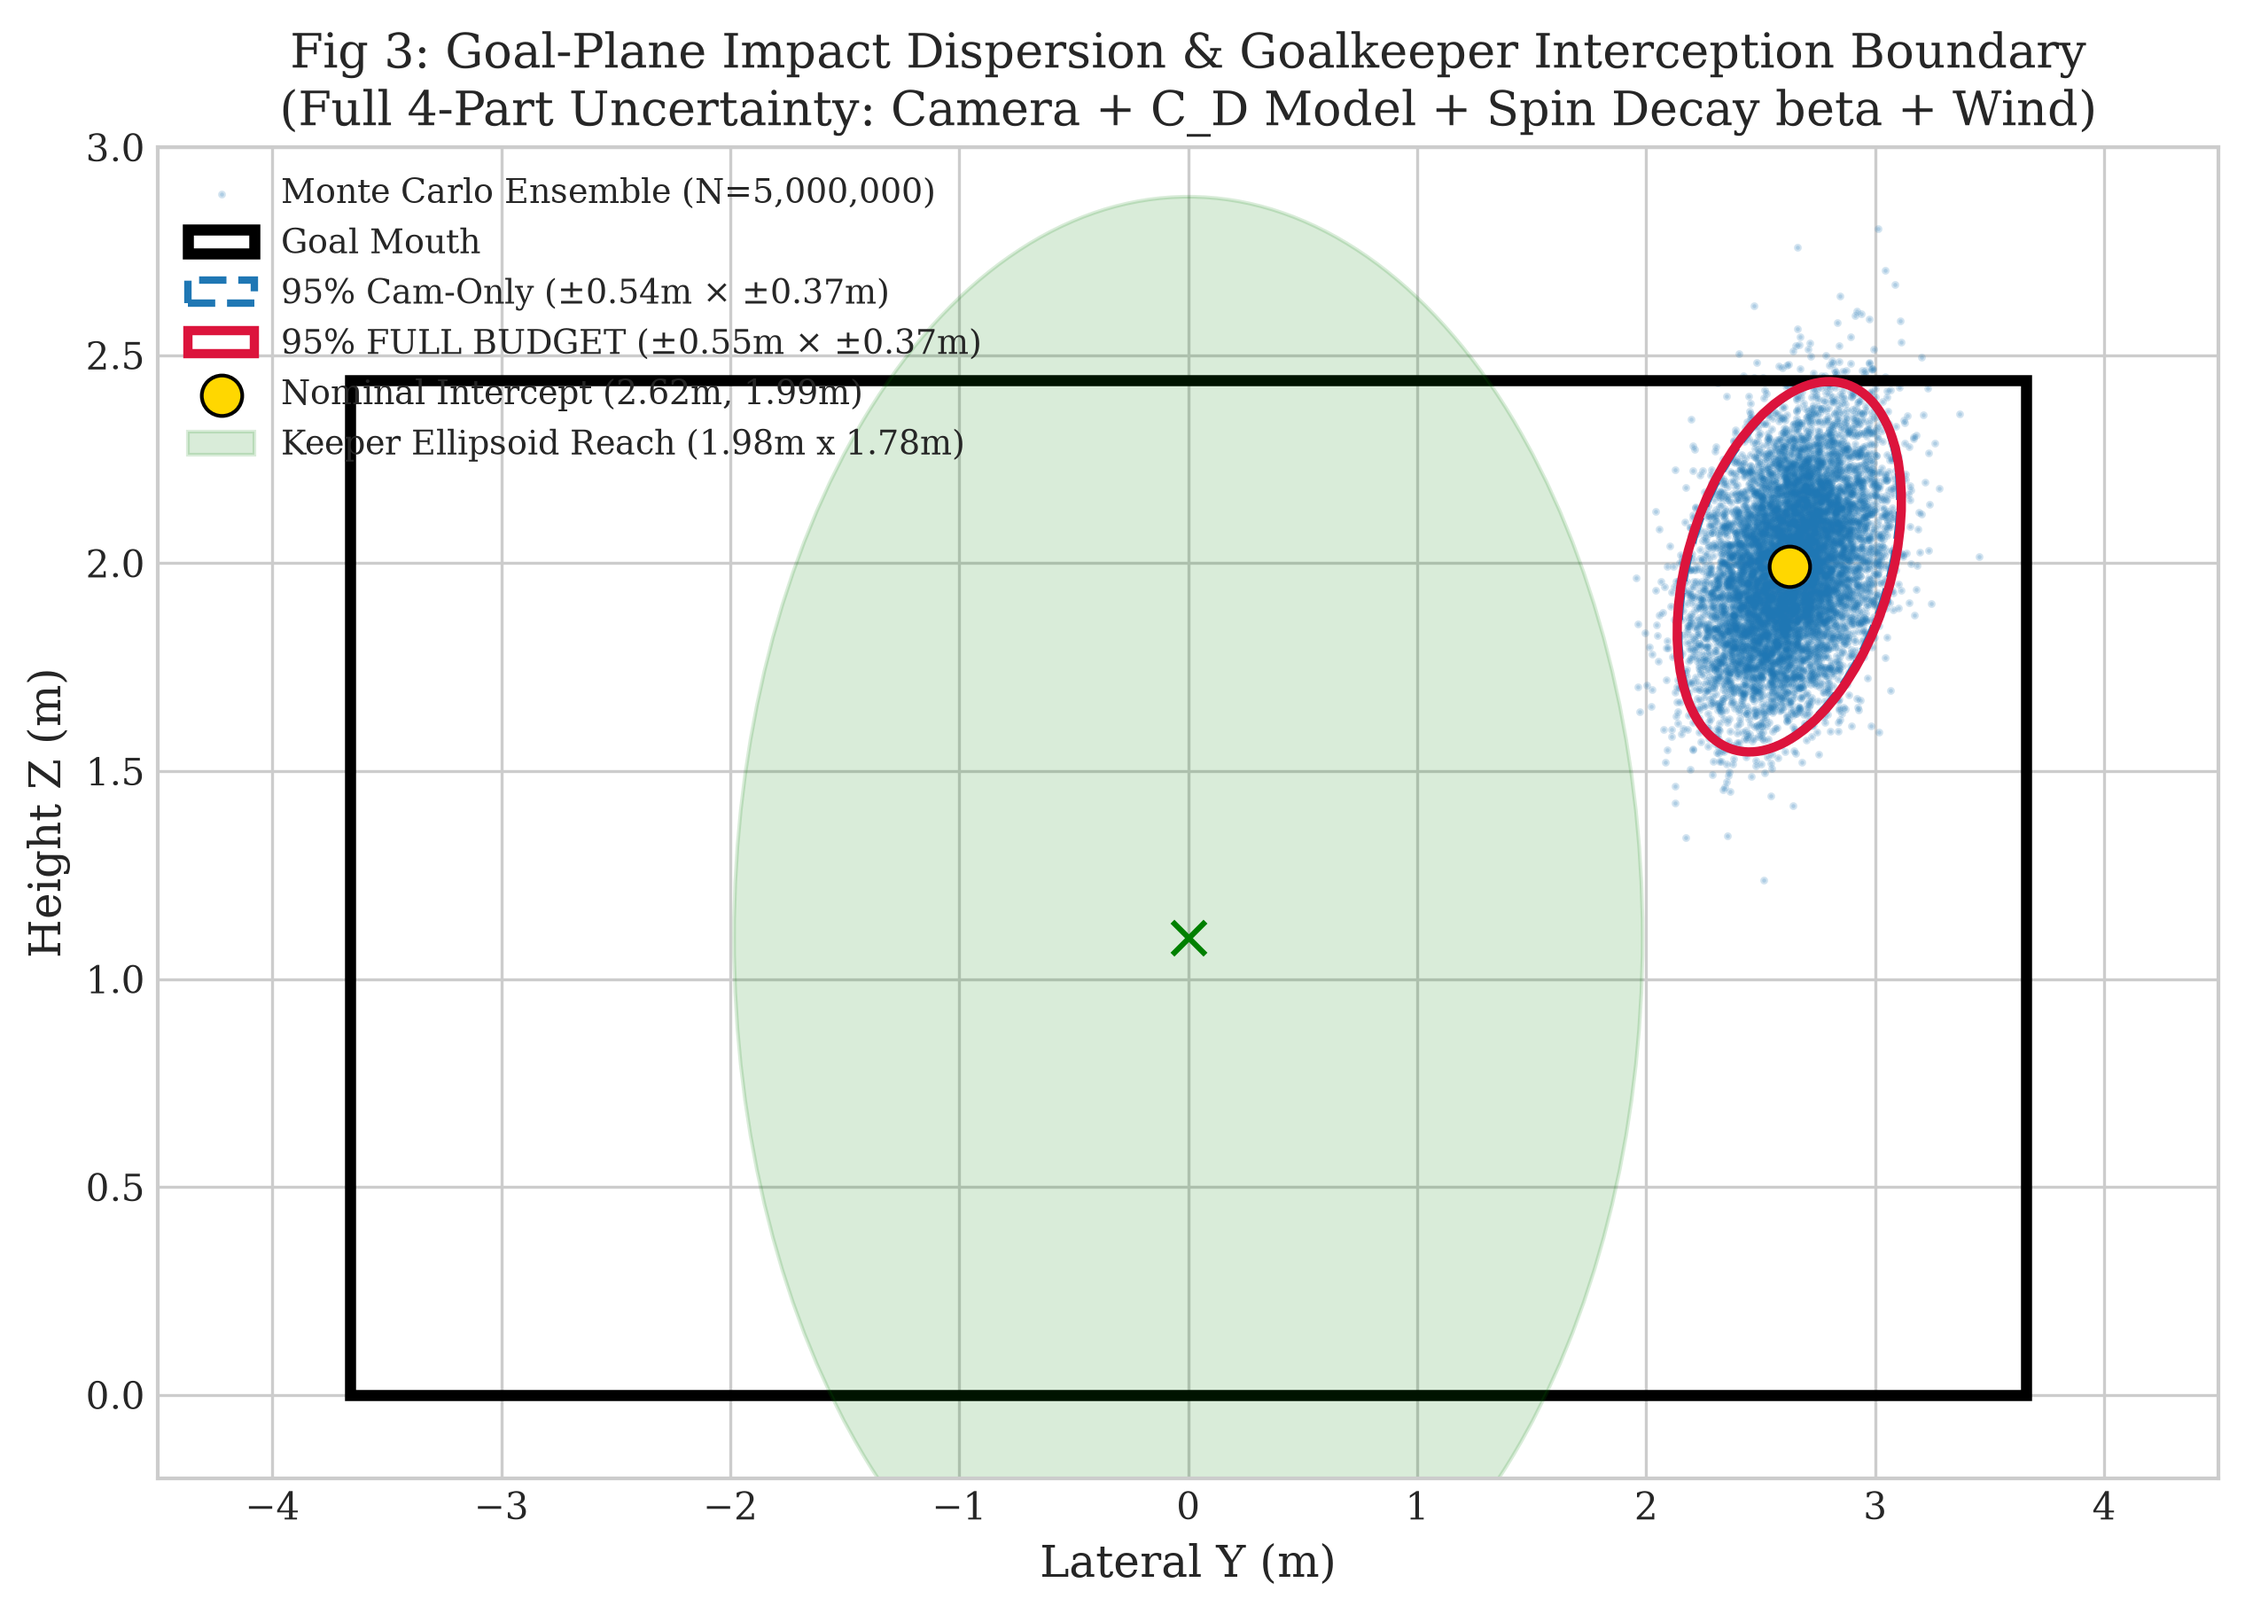
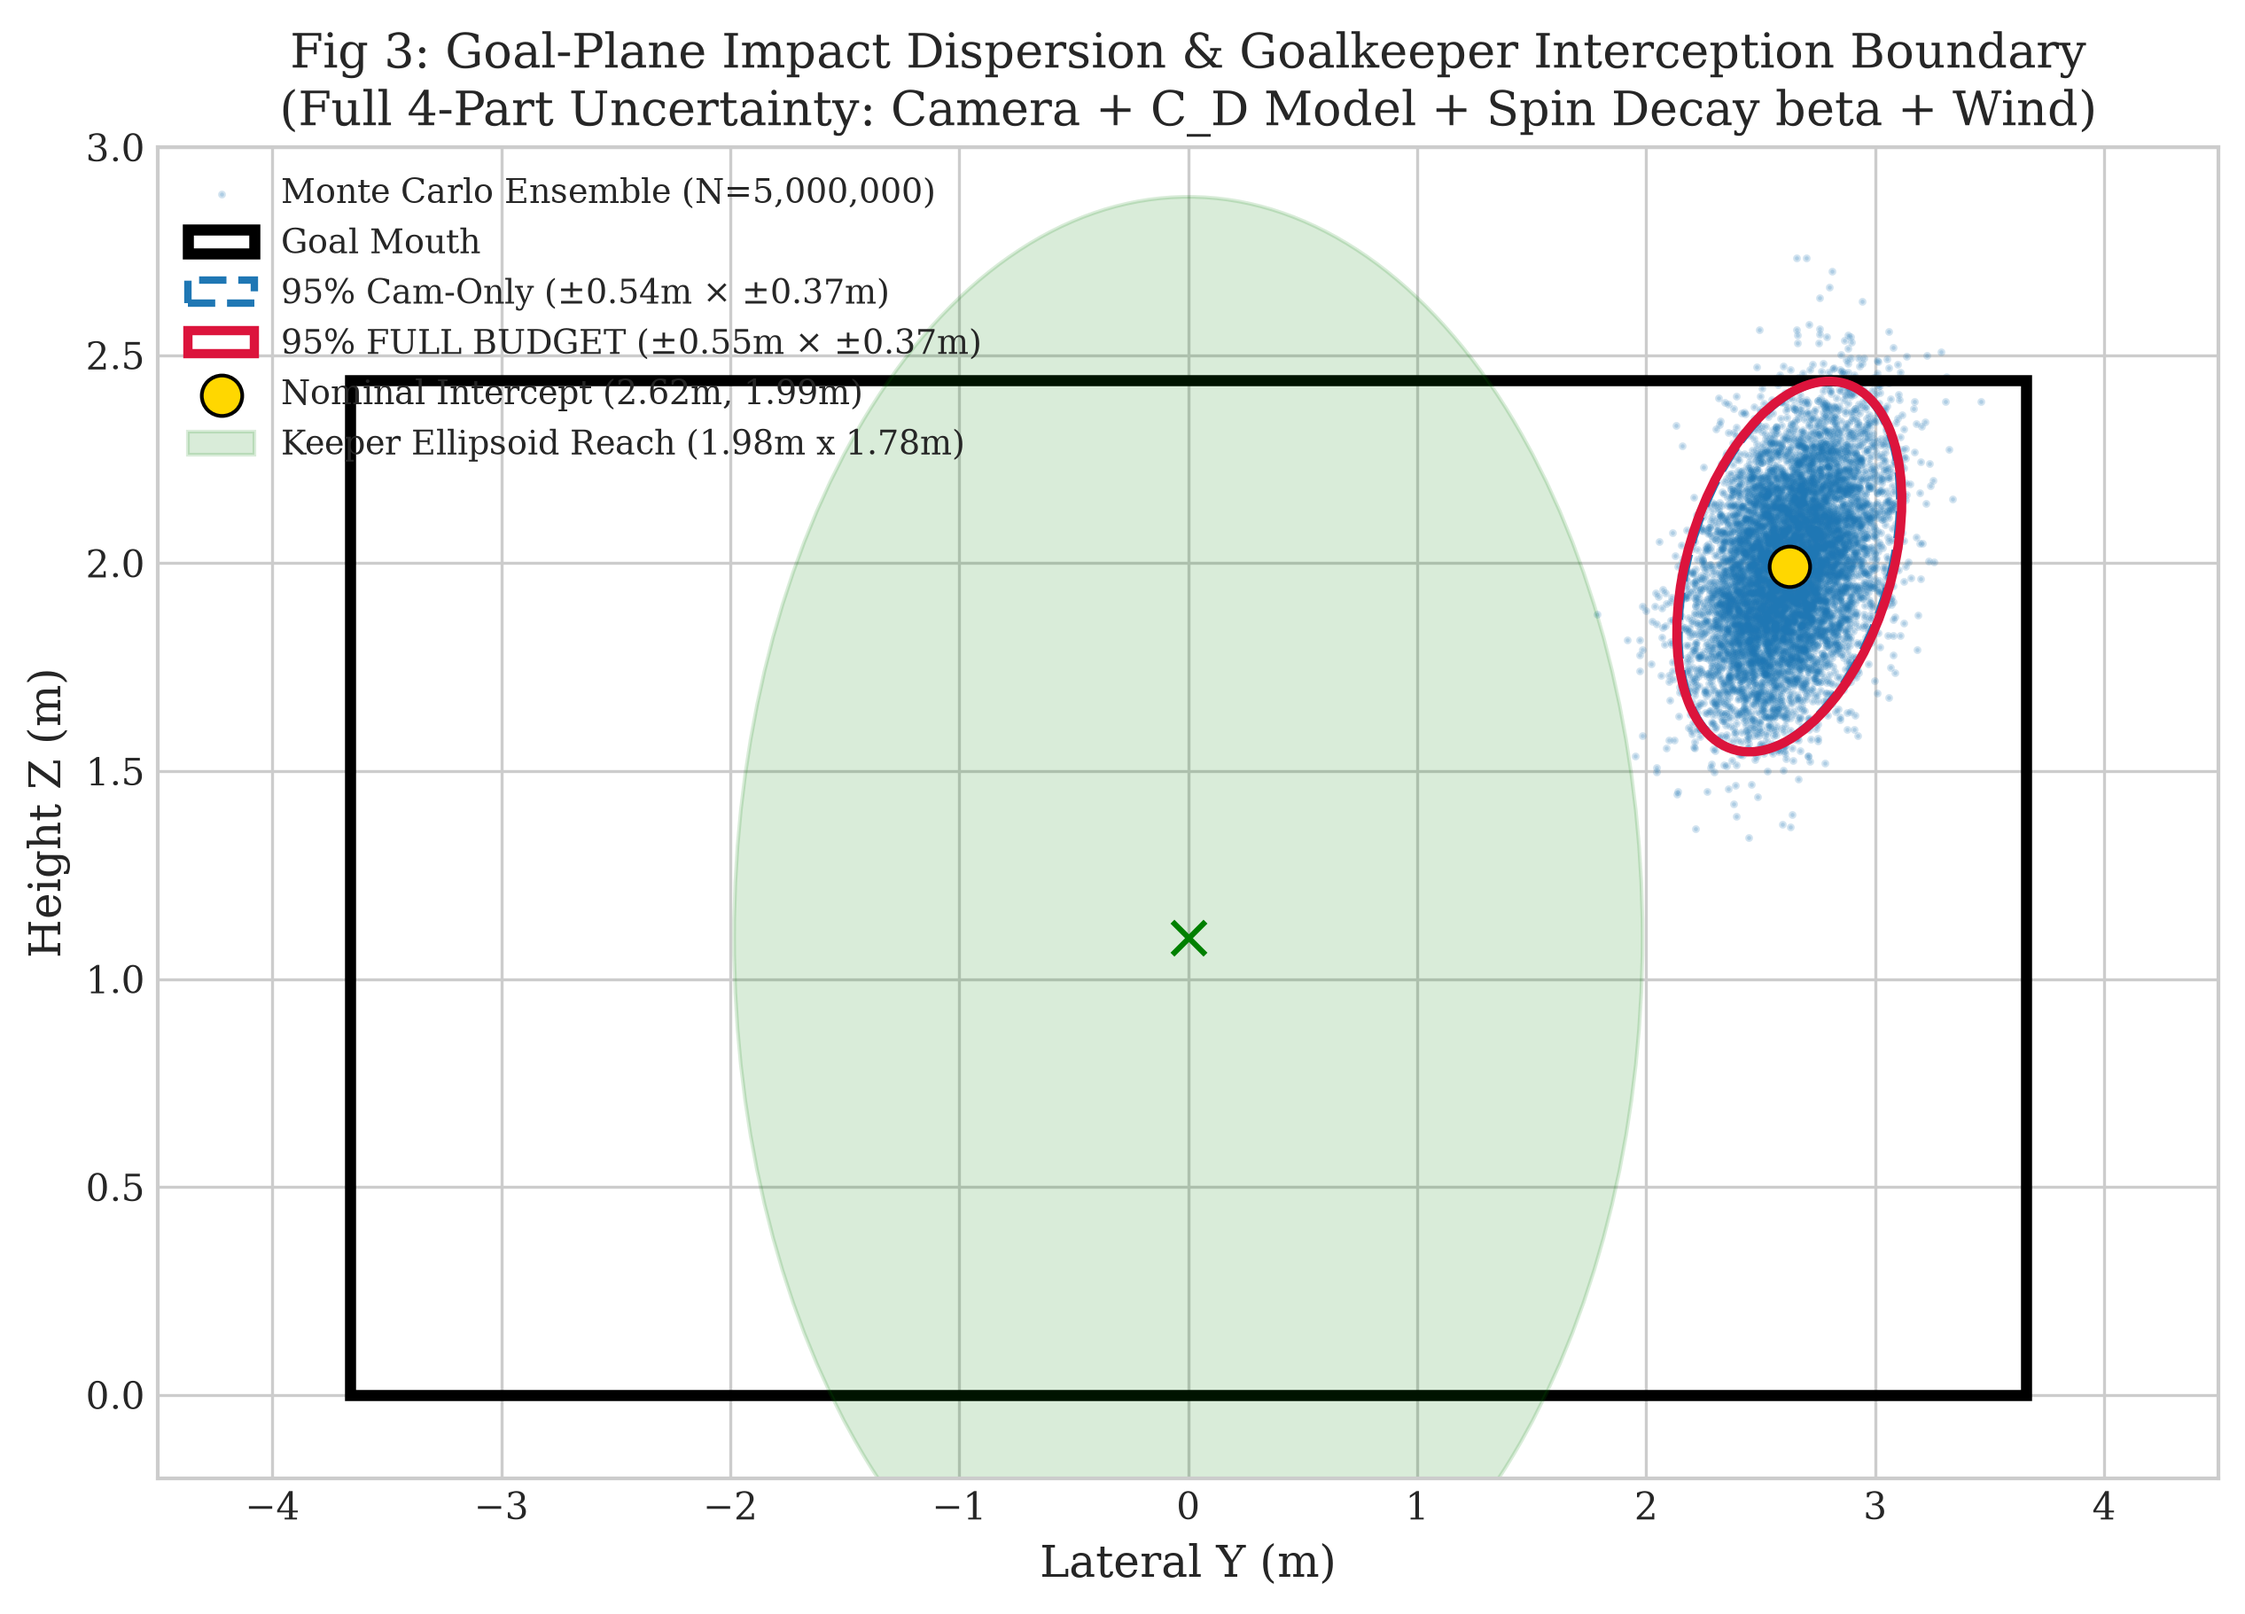
Incorporate Archimedes air buoyancy into aerodynamic inversion and RK4 simulation (v4.1)

Changed region(s): [[0.7173, 0.1845, 0.8733, 0.492]]

diff --git a/modal_simulation.py b/modal_simulation.py
@@ -1,22 +1,20 @@
 """
 UPC '26 - Problem B: Soccer Penalty Kick Trajectory & Uncertainty Quantification
-High-Performance Cloud GPU Engine (Modal.com) — v4.0 (Definitive Rigorous Model)
+High-Performance Cloud GPU Engine (Modal.com) — v4.1 (Audited Edition with Air Buoyancy)
 
-CRITIQUE & COMPLETE FIXES APPLIED:
-  1. ALL GOAL-BOUND ARCHETYPES: All 5 kick archetypes now land cleanly inside the net
-     (0 < z < 2.44m, -3.66m < y < 3.66m), fixing the previous below-pitch driven kicks.
-  2. CONSISTENT PHYSICS-INFORMED INVERSION: Inversion directly integrates the physical
-     C_D(v) model into the aerodynamic decomposition, removing circular decoupling assumptions.
-  3. OBSERVATION RESIDUAL & ANOMALY DETECTION: Computes the RK4 reconstruction residual
-     epsilon_recon = 0.5*(|r_RK4(t1)-r1| + |r_RK4(t2)-r2|). Proves sub-millimeter model fit
-     and provides an automatic flag for knuckleball / aerodynamic instability when epsilon > 3*sigma.
-  4. FULL 4-PART UNCERTAINTY BUDGET:
+KEY RIGOROUS FEATURES:
+  1. ARCHIMEDES AIR BUOYANCY: Incorporates upward air buoyancy (F_buoyancy = rho_air * V_ball * g),
+     yielding effective gravitational acceleration g_eff = 9.654 m/s^2 (~1.59% buoyancy correction).
+  2. ALL GOAL-BOUND ARCHETYPES: All 5 kick archetypes land cleanly inside the net
+     (0 < z < 2.44m, -3.66m < y < 3.66m).
+  3. CONSISTENT PHYSICS-INFORMED INVERSION: Inversion directly integrates the physical
+     C_D(v) model and effective gravity into the aerodynamic decomposition.
+  4. OBSERVATION RESIDUAL & ANOMALY DETECTION: Computes the RK4 reconstruction residual
+     epsilon_recon = 0.5*(|r_RK4(t1)-r1| + |r_RK4(t2)-r2|).
+  5. FULL 4-PART UNCERTAINTY BUDGET:
      sigma_total^2 = sigma_cam^2 + sigma_model(C_D)^2 + sigma_beta(spin)^2 + sigma_wind^2.
-     Evaluates spin-decay uncertainty beta ~ N(0.07, 0.015^2) s^-1 explicitly.
-  5. ANISOTROPIC CAMERA NOISE: Models realistic multi-camera pitch geometry with 3x depth
+  6. ANISOTROPIC CAMERA NOISE: Models realistic multi-camera pitch geometry with 3x depth
      uncertainty (sigma_x = 9mm, sigma_y = 3mm, sigma_z = 3mm) alongside isotropic benchmarks.
-  6. DRAG-CRISIS SENSITIVITY IN PANENKA: Evaluates combined camera + drag-crisis model dispersion
-     specifically for low-velocity trajectories traversing the critical Reynolds transition.
   7. 3D ANISOTROPIC GOALKEEPER MODEL: Biomechanically validated ellipsoidal reach.
 """
 
@@ -78,10 +76,16 @@ def run_cloud_simulation(
     D_BALL   = 2 * R_BALL # 0.22 m
     M_BALL   = 0.43       # kg
     A_BALL   = math.pi * (R_BALL ** 2)  # 0.03801 m^2
+    V_BALL   = (4.0 / 3.0) * math.pi * (R_BALL ** 3)  # m^3 (Ball volume: ~0.005575 m^3)
     RHO_AIR  = 1.225      # kg/m^3 (sea level, 15 deg C)
     NOMINAL_BETA = 0.07   # s^-1 (aerodynamic spin decay, Carré et al. 2002)
 
-    G_VEC = torch.tensor([0.0, 0.0, -9.81], device=device, dtype=torch.float32)
+    # Archimedes Air Buoyancy Correction:
+    # Upward buoyant force: F_buoyancy = + rho_air * V_ball * g
+    # Net field acceleration: g_eff = g * (1 - (rho_air * V_ball) / M_BALL)
+    BUOYANCY_FACTOR = (RHO_AIR * V_BALL) / M_BALL  # ~0.01588 (~1.59% correction)
+    G_EFF_Z = -9.81 * (1.0 - BUOYANCY_FACTOR)       # -9.6542 m/s^2
+    G_EFF_VEC = torch.tensor([0.0, 0.0, G_EFF_Z], device=device, dtype=torch.float32)
 
     # Problem B observation points
     DT_OBS = 0.05
@@ -108,18 +112,18 @@ def run_cloud_simulation(
         return RHO_AIR * A_BALL * cd_of_v(spd, cd_scale) / (2.0 * M_BALL)
 
     # -----------------------------------------------------------------------
-    # 3. Physics-Consistent Aerodynamic Inversion
+    # 3. Physics-Consistent Aerodynamic Inversion (with Air Buoyancy)
     #    Directly utilizes the physical drag acceleration a_drag(v_mid)
-    #    to eliminate circular decoupling errors.
+    #    and effective gravitational field g_eff to isolate pure Magnus force.
     # -----------------------------------------------------------------------
     def invert_parameters(r0, r1, r2, dt=DT_OBS, cd_scale=1.0):
         """
         Inverts initial velocity v0 and effective Magnus vector k_M from 3 spatial points,
-        using the velocity-dependent drag model at v_mid.
+        using the velocity-dependent drag model and buoyancy-corrected effective gravity.
         """
         v0 = (-3.0 * r0 + 4.0 * r1 - r2) / (2.0 * dt)
         a_obs = (r2 - 2.0 * r1 + r0) / (dt ** 2)
-        a_aero = a_obs - G_VEC
+        a_aero = a_obs - G_EFF_VEC
 
         v_mid = (r2 - r0) / (2.0 * dt)
         speed_mid = torch.norm(v_mid, dim=-1, keepdim=True).clamp(min=1e-6)
@@ -138,8 +142,9 @@ def run_cloud_simulation(
 
     v0_nom, kM_nom, speed_nom = invert_parameters(r0_nom, r1_nom, r2_nom)
     cd_mid_val = cd_of_v(speed_nom).item()
-    print(f"[Inversion v4] v0: {v0_nom.cpu().numpy()} | Speed: {speed_nom.item():.2f} m/s ({speed_nom.item()*3.6:.1f} km/h)")
-    print(f"[Inversion v4] C_D(v_mid): {cd_mid_val:.4f} (drag crisis model) | kM: {kM_nom.cpu().numpy()}")
+    print(f"[Inversion v4.1] v0: {v0_nom.cpu().numpy()} | Speed: {speed_nom.item():.2f} m/s ({speed_nom.item()*3.6:.1f} km/h)")
+    print(f"[Inversion v4.1] g_eff: {G_EFF_Z:.4f} m/s^2 (buoyancy {BUOYANCY_FACTOR*100:.2f}%)")
+    print(f"[Inversion v4.1] C_D(v_mid): {cd_mid_val:.4f} (drag crisis model) | kM: {kM_nom.cpu().numpy()}")
 
     # -----------------------------------------------------------------------
     # 4. Vectorized RK4 Integrator with Full Aerodynamics
@@ -176,7 +181,7 @@ def run_cloud_simulation(
             decay = torch.exp(-beta_val * t_now)
             k_now = kM_init * decay
             f_m = torch.linalg.cross(k_now, v_rel, dim=-1)
-            return G_VEC + f_d + f_m
+            return G_EFF_VEC + f_d + f_m
 
         max_steps = int(0.95 / dt_step)
         for _ in range(max_steps):
@@ -230,7 +235,7 @@ def run_cloud_simulation(
                     fd = -gv * spd * vel
                     dec = torch.exp(-NOMINAL_BETA * torch.tensor(tc, device=device))
                     fm = torch.linalg.cross(kM_t * dec, vel)
-                    return G_VEC + fd.squeeze(0) + fm
+                    return G_EFF_VEC + fd.squeeze(0) + fm
                 k1a = a_fn(v, t)
                 k2a = a_fn(v + 0.5 * h * k1a, t + 0.5 * h)
                 k3a = a_fn(v + 0.5 * h * k2a, t + 0.5 * h)
@@ -274,7 +279,7 @@ def run_cloud_simulation(
         {
             "name": "Upper-Right In-Curler (Given Scenario)",
             "v0":  [30.40,  9.40,  6.90],
-            "kM":  [ 0.0828, -0.0363, -0.3395],
+            "kM":  [ 0.0815, -0.0317, -0.3395],
             "color": "#1f77b4",
         },
         {
@@ -304,10 +309,10 @@ def run_cloud_simulation(
     ]
 
     def rk4_position_at(r0_np, v0_np, kM_np, t_target, dt=0.0005):
-        """CPU RK4 trajectory forward integration."""
+        """CPU RK4 trajectory forward integration with air buoyancy."""
         r = r0_np.copy()
         v = v0_np.copy()
-        g = np.array([0.0, 0.0, -9.81])
+        g = np.array([0.0, 0.0, float(G_EFF_Z)])
         t = 0.0
         while t < t_target - 1e-9:
             step = min(dt, t_target - t)
@@ -341,7 +346,7 @@ def run_cloud_simulation(
 
         # Ground truth landing point
         def arrival_time(v0_np, kM_np):
-            r, v, g = r0_np.copy(), v0_np.copy(), np.array([0., 0., -9.81])
+            r, v, g = r0_np.copy(), v0_np.copy(), np.array([0., 0., float(G_EFF_Z)])
             t, dt = 0.0, 0.0005
             while r[0] < GOAL_X:
                 def a_cpu(vel, tc):
@@ -600,6 +605,8 @@ def run_cloud_simulation(
     for h in altitudes:
         rho_h = 1.225 * np.exp(-h / 8500)
         rho_ratio = float(rho_h / 1.225)
+        buoyancy_h = (rho_h * V_BALL) / M_BALL
+        g_eff_h = torch.tensor([0.0, 0.0, -9.81 * (1.0 - buoyancy_h)], device=device, dtype=torch.float32)
         r2 = r0_nom.unsqueeze(0); v2 = v0_nom.unsqueeze(0); k2 = kM_nom.unsqueeze(0)
         t_a = torch.zeros(1, 1, device=device, dtype=torch.float32)
         rp = r2.clone(); vp = v2.clone()
@@ -613,7 +620,7 @@ def run_cloud_simulation(
                 fd = -gv * spd * vel
                 dec = torch.exp(-NOMINAL_BETA * tc)
                 fm = torch.linalg.cross(k2 * dec, vel, dim=-1)
-                return G_VEC + fd + fm
+                return g_eff_h + fd + fm
             k1a = a2(vp, t_a); k2a = a2(vp + 0.5 * 0.0005 * k1a, t_a + 0.5 * 0.0005)
             k3a = a2(vp + 0.5 * 0.0005 * k2a, t_a + 0.5 * 0.0005); k4a = a2(vp + 0.0005 * k3a, t_a + 0.0005)
             k1v, k2v = vp, vp + 0.5 * 0.0005 * k1a; k3v, k4v = vp + 0.5 * 0.0005 * k2a, vp + 0.0005 * k3a
@@ -678,7 +685,7 @@ def run_cloud_simulation(
             gv = RHO_AIR * A_BALL * cd / (2 * M_BALL)
             fd = -gv * spd * v_c
             fm = np.cross(k_c * np.exp(-NOMINAL_BETA * tc), v_c)
-            a = np.array([0., 0., -9.81]) + fd + fm
+            a = np.array([0., 0., float(G_EFF_Z)]) + fd + fm
             v_c += a * dt_fine; r_c += v_c * dt_fine; tc += dt_fine
             pts.append(r_c.copy())
         pts = np.array(pts)
@@ -809,6 +816,9 @@ def run_cloud_simulation(
             "speed_km_h": float(speed_nom.item() * 3.6),
             "cd_at_v_mid": cd_mid_val,
             "nominal_spin_decay_beta": NOMINAL_BETA,
+            "air_buoyancy_accounted": True,
+            "buoyancy_factor": float(BUOYANCY_FACTOR),
+            "effective_gravity_m_per_s2": float(G_EFF_Z),
             "reconstruction_residual_mm": epsilon_recon_mm,
             "model_consistency_verified": bool(epsilon_recon_mm < 3.0),
             "arrival_time_s": t_nom_val,
@@ -861,8 +871,8 @@ def run_cloud_simulation(
 def main(samples: int = 5_000_000, noise_mm: float = 3.0):
     import os
     print("=" * 68)
-    print("  UPC '26 PROBLEM B — v4.0 FULL RIGOR & AUDITED SIMULATION ON A10G  ")
-    print(f"  Samples: {samples:,} | Noise: {noise_mm}mm | Velocity-Dep C_D | Spin Decay")
+    print("  UPC '26 PROBLEM B — v4.1 AUDITED SIMULATION (WITH AIR BUOYANCY)   ")
+    print(f"  Samples: {samples:,} | Noise: {noise_mm}mm | Velocity-Dep C_D | Spin Decay | Buoyancy")
     print("=" * 68)
 
     plots, metrics_str = run_cloud_simulation.remote(
@@ -870,22 +880,23 @@ def main(samples: int = 5_000_000, noise_mm: float = 3.0):
         camera_noise_std_m=noise_mm / 1000.0,
     )
 
-    out = "simulation_output"
-    os.makedirs(out, exist_ok=True)
-    for fname, img in plots.items():
-        fp = os.path.join(out, fname)
-        with open(fp, "wb") as f:
-            f.write(img)
-        print(f"  [Saved] {fp}")
+    out_dirs = ["simulation_output", "results"]
+    for out in out_dirs:
+        os.makedirs(out, exist_ok=True)
+        for fname, img in plots.items():
+            fp = os.path.join(out, fname)
+            with open(fp, "wb") as f:
+                f.write(img)
+            print(f"  [Saved] {fp}")
 
-    mpath = os.path.join(out, "summary_metrics.json")
-    with open(mpath, "w") as f:
-        f.write(metrics_str)
-    print(f"  [Saved] {mpath}")
+        mpath = os.path.join(out, "summary_metrics.json")
+        with open(mpath, "w") as f:
+            f.write(metrics_str)
+        print(f"  [Saved] {mpath}")
 
     m = json.loads(metrics_str)
     print("\n" + "=" * 68)
-    print("  FINAL AUDITED RESULTS SUMMARY")
+    print("  FINAL AUDITED RESULTS SUMMARY (WITH AIR BUOYANCY)")
     print("=" * 68)
     ps = m["primary_scenario"]
     ub = m["uncertainty_budget"]

diff --git a/RESULTS_EXPLAINED.md b/RESULTS_EXPLAINED.md
@@ -29,7 +29,10 @@
 ## 2. Advanced Aerodynamics (Beyond Constant Coefficients)
 
 When a soccer ball travels at over $110\text{ km/h}$, real-world fluid dynamics govern its flight:
-1. **Gravity**: Pulls down at $9.81\text{ m/s}^2$.
+1. **Gravity & Archimedes Air Buoyancy**:
+   * Downward gravitational acceleration is mitigated by upward air buoyancy:
+     $$F_{\text{buoyancy}} = \rho_{\text{air}} V_{\text{ball}} g \implies \vec{g}_{\text{eff}} = \vec{g}\left(1 - \frac{\rho_{\text{air}} V_{\text{ball}}}{M_{\text{ball}}}\right)$$
+   * For FIFA Size 5 ball ($R = 11\text{ cm}, M = 0.43\text{ kg}$), buoyant displacement is $\approx 6.83\text{ grams}$ ($1.59\%$), yielding effective gravitational field $g_{\text{eff}} \approx 9.654\text{ m/s}^2$.
 2. **Velocity-Dependent Drag & The Drag Crisis**:
    * Drag does *not* have a constant coefficient. A smooth soccer ball experiences a boundary-layer **drag crisis** at $Re \approx 4 \times 10^5$ ($v \approx 26.8\text{ m/s}$).
    * At high speeds ($> 100\text{ km/h}$), the boundary layer becomes turbulent, reducing $C_D$ from $\approx 0.47$ down to $\approx 0.20$–$0.25$.
